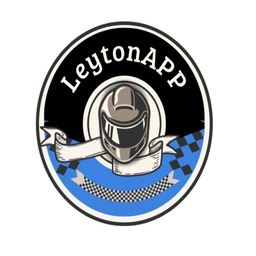
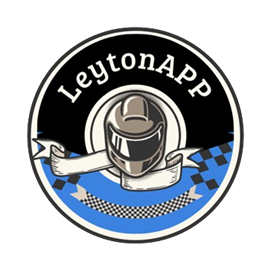
Se sube el icono

diff --git a/src/views/LoginScreen.js b/src/views/LoginScreen.js
@@ -3,14 +3,13 @@
 import React, { useState } from 'react';
 import {
     View, Text, TextInput, TouchableOpacity, StyleSheet, Alert,
-    ActivityIndicator
+    ActivityIndicator,Image
 } from "react-native"; 
 
 import { db, auth } from "../database/firebaseconfig"; 
 import { collection, getDocs, query, where } from "firebase/firestore"; 
 import { signInWithEmailAndPassword } from "firebase/auth";
 import { Ionicons } from "@expo/vector-icons"; 
-
 
 // FUNCIÓN DUPLICADA para obtener el rol, garantizando velocidad de navegación.
 const getRole = async (email) => {
@@ -86,7 +85,11 @@ export default function LoginScreen({ navigation }) {
         <View style={styles.container}>
             <Text style={styles.title}>Iniciar Sesión</Text>
             
-            <Ionicons name="person-circle-outline" size={80} color="#0097e6" style={{marginBottom: 20}} /> 
+         <Image 
+  source={require('../../assets/icon.png')} 
+  style={styles.logo} 
+  resizeMode="contain"
+/>
             
             <TextInput style={styles.input} placeholder="Correo electrónico" placeholderTextColor="#aaa" value={email} onChangeText={setEmail} keyboardType="email-address" autoCapitalize="none" editable={!cargando} />
             <TextInput style={styles.input} placeholder="Contraseña" placeholderTextColor="#aaa" value={password} onChangeText={setPassword} secureTextEntry editable={!cargando} />
